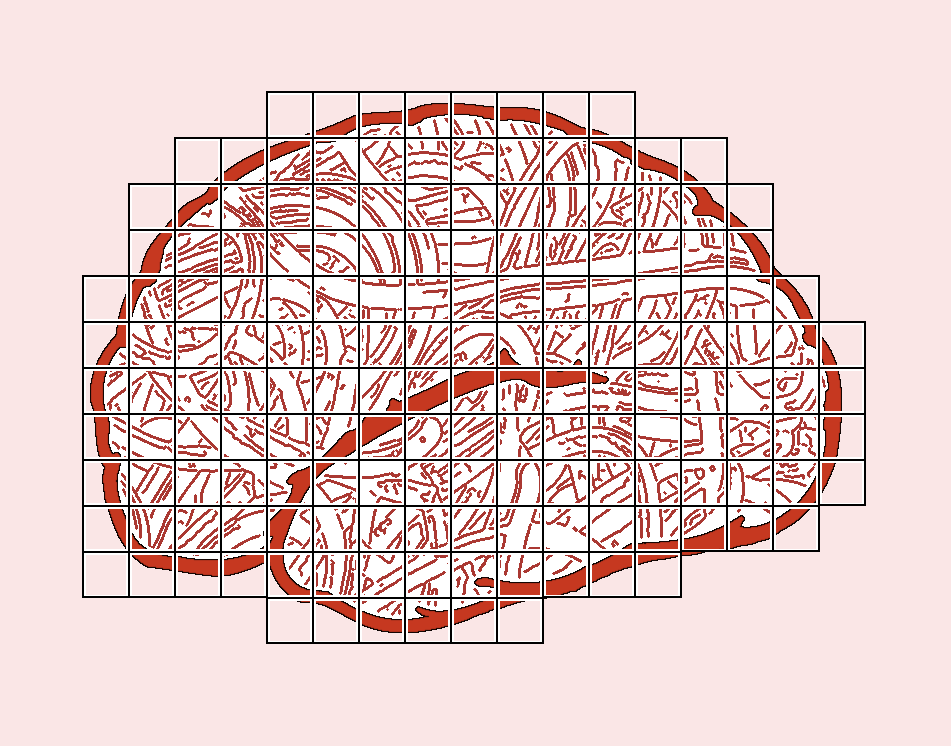
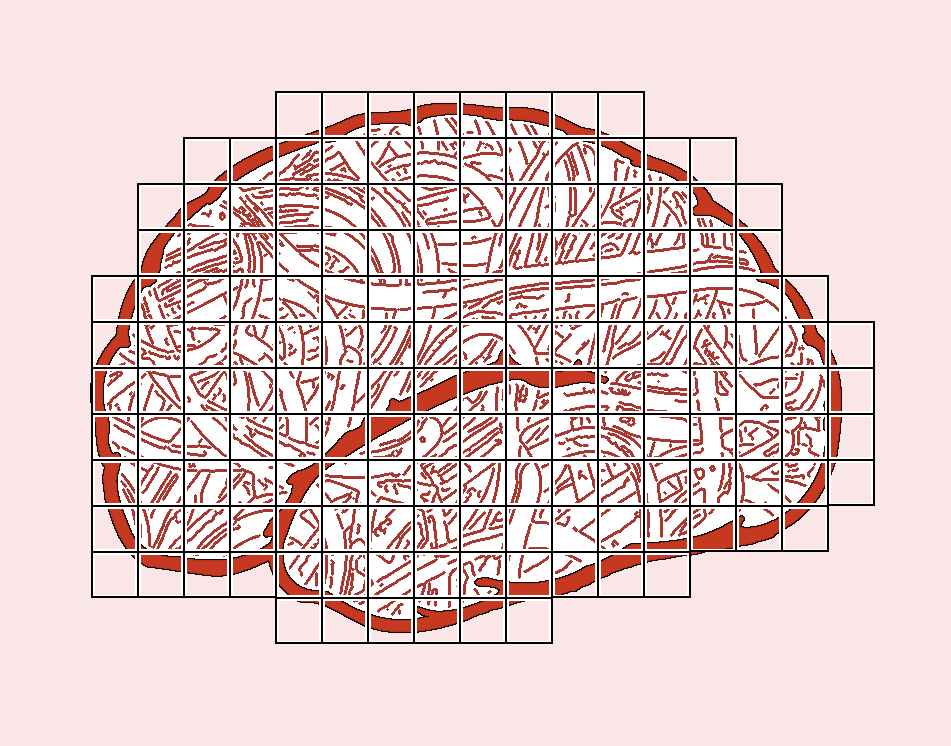
tensors

diff --git a/Images/BrainGraphic.m b/Images/BrainGraphic.m
@@ -94,43 +94,71 @@ while i+N-1 < size(cortex_bw,1)
     i = i + N + 2*n;
 end
 
-t=10;
-grid = [grid(:,t:end) grid(:,1:t-1)];
+% t=10;
+% grid = [grid(:,t:end) grid(:,1:t-1)];
 
 grid = repmat(grid,[1 1 3]);
 
 imwrite(brain + cables_edge + cables_filling + background_color + grid,'grid.png')
 
 %%
-
-% [V,D] = eig(double(cables_edge_mask(200:250,200:250)));
-% 
-% t = linspace(0,2*pi);
-% plot(cos(t),sin(t + pi/6))
-
 im=cables_edge_mask(200:250,200:250);
 
-% coo = im2coo(im);
-% 
-% subplot(1,2,1)
-% plot(coo( logical(coo(:,3)),1),coo( logical(coo(:,3)),2),'x',...
-%      coo(~logical(coo(:,3)),1),coo(~logical(coo(:,3)),2),'o')
-% % subplot(1,2,2)
-% % imshow(im)
-% 
-% [U,S,V] = svd(coo(logical(coo(:,3)),1:2));
-% 
-% t = linspace(0,2*pi);
-% 
-% ell_coo = [S(1,1)*cos(t)', S(2,2)*sin(t + asin(V(2,1)))'];
-% 
 subplot(1,2,1)
 imshow(im)
-% ell_im = coo2im(ell_coo ,200,200);
-
-
 subplot(1,2,2)
 imshow(im2ell(im))
+
+%%
+
+img = im2double(cortex_bw + cables_edge_mask);
+
+ell_grid = zeros(size(cortex_bw));
+
+ellipses = cell(1,9);
+
+t = linspace(0,2*pi);
+ell_coo = [cos(t)', sin(t)'];
+ellipses{1} = coo2im(ell_coo,N,N);
+imshow(ellipses{1})
+
+a=1.5;b=1;
+for d = 0:7
+    phi = d*pi/8;
+    ell_coo = [a*cos(phi)*cos(t)' - b*sin(phi)*sin(t)', a*sin(phi)*cos(t)' + b*cos(phi)*sin(t)'];
+    subplot(3,3,d+1)
+%     plot(ell_coo(:,1),ell_coo(:,2))
+%     axis([-3 3 -3 3])
+    ellipses{d+2} = coo2im(ell_coo,N,N);
+    imshow(ellipses{d+2})
+end
+
+% 
+% i=n+1;
+% while i+N-1 < size(cortex_bw,1)
+%    j=n+1;
+%    while j+N-1 < size(cortex_bw,2)
+%     if sum(sum(double(cortex_bw(i:i+N-1,j:j+N-1) + cables_edge_mask(i:i+N-1,j:j+N-1)))) > 0
+%         
+%         dir = zeros(1,4);
+%         for d = 0:3
+%         img_rot = imrotate(img,d*pi/4);
+%         block = img_rot(i:i+N-1,j:j+N-1);
+%         dir(1,i) = sum(sum(edge(block,'Prewitt',0.1,'horizontal')));
+%         end
+%         dir = dir/sum(dir);
+% %        ell_grid(i:i+N-1,j:j+N-1) = im2ell(im2double(cortex_bw(i:i+N-1,j:j+N-1) + cables_edge_mask(i:i+N-1,j:j+N-1)));   
+%      
+%        
+%     end
+%     j = j + N + 2*n;   
+%    end
+%     i = i + N + 2*n;
+% end
+% 
+% % ell_grid = [ell_grid(:,t:end) ell_grid(:,1:t-1)];
+% 
+% imshow(repmat(-0.5*ell_grid,[1 1 3]) + brain + cables_edge + cables_filling + background_color + grid)
 
 
 

diff --git a/Images/coo2im.m b/Images/coo2im.m
@@ -6,7 +6,7 @@ maxY = max(coo(:,2));
 img = zeros(Nx,Ny);
 
 for i = 1:size(coo,1)
-    img( Ny - round(Ny*(coo(i,2)+maxY+1)/(2*maxY+1)) + 2, round((Nx-2)*(coo(i,1)+maxX+1)/(2*maxX+1)) + 1 ) = 1;
+    img( Ny - round((Ny-1)*(coo(i,2)+maxY)/(2*maxY)), round((Nx-1)*(coo(i,1)+maxX)/(2*maxX)) + 1 ) = 1;
 end
 
 img = padarray(img,[10 10]);
@@ -15,7 +15,7 @@ img = imdilate(img,strel('disk',3));
 
 img_edge = edge(img,'Canny');
 img_edge_dilated = imdilate(img_edge,strel('disk',1));
-img_filtered = imgaussfilt(img,1);
+img_filtered = imfilter(img,fspecial('gaussian',5,2));
 img(img_edge_dilated) = img_filtered(img_edge_dilated);
 
 end

diff --git a/Images/im2ell.m b/Images/im2ell.m
@@ -13,4 +13,6 @@ ell_coo = [sqrt(S(1,1))*cos(t)', sqrt(S(2,2))*sin(t + asin(V(2,1)))'];
 
 ell = coo2im(ell_coo,nx,ny);
 
+ell = ell(1:nx,1:ny);
+
 end
